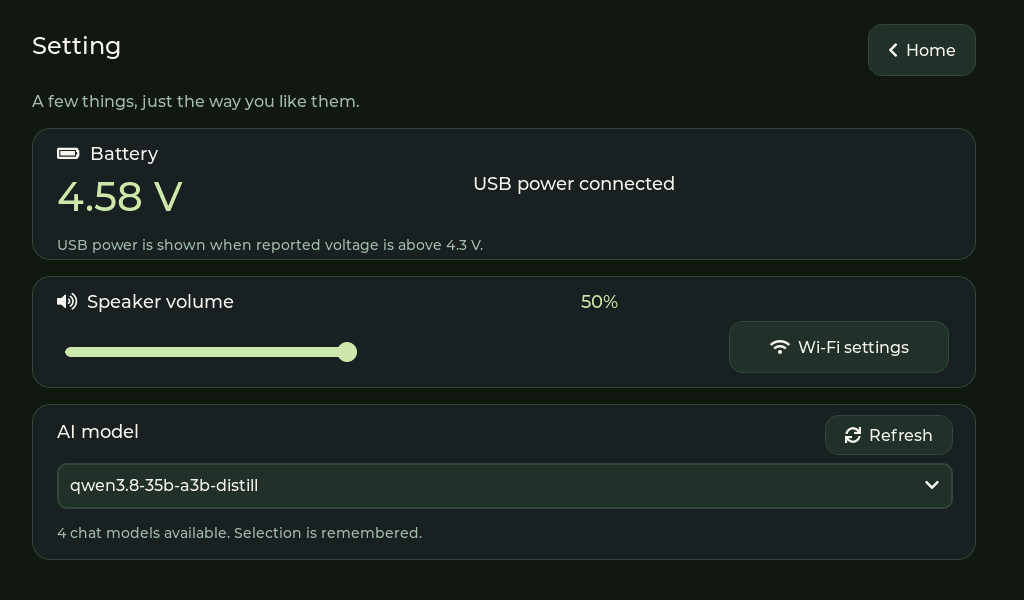
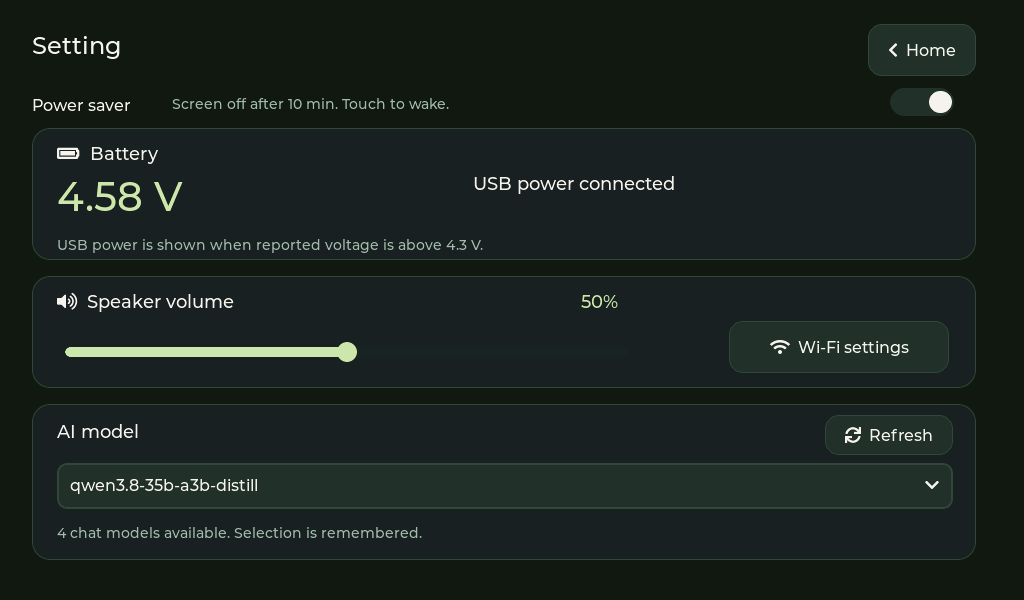
Add saved ten-minute screen power saver with touch wake

Changed region(s): [[0.0312, 0.15, 0.4375, 0.21], [0.8438, 0.15, 0.9375, 0.21]]

diff --git a/firmware/main/odin_power.c b/firmware/main/odin_power.c
@@ -1,0 +1,103 @@
+#include "odin_power.h"
+#include "odin_board.h"
+#include "lvgl.h"
+#include "nvs.h"
+#include "esp_log.h"
+#include "freertos/FreeRTOS.h"
+#include "freertos/task.h"
+#include <stdatomic.h>
+
+static atomic_bool enabled;
+static bool initialized, asleep, consume_touch;
+static bool persisted_enabled;
+static uint32_t wake_brightness = 100;
+static TaskHandle_t settings_task;
+
+bool odin_power_is_enabled(void) { return atomic_load(&enabled); }
+static esp_err_t wake_screen(void)
+{
+    if (!asleep) return ESP_OK;
+    esp_err_t err = odin_board_set_backlight(wake_brightness);
+    if (err == ESP_OK) {
+        asleep = false;
+        lv_disp_trig_activity(NULL);
+        ESP_LOGI("odin_power", "Screen awake");
+    } else ESP_LOGW("odin_power", "Unable to wake screen: %s", esp_err_to_name(err));
+    return err;
+}
+static bool filter_touch(bool pressed)
+{
+    if (!pressed) { consume_touch = false; return false; }
+    if (asleep) {
+        wake_screen();
+        consume_touch = true;
+    }
+    if (consume_touch) {
+        /* The first gesture wakes only; no hidden button or recording starts. */
+        lv_disp_trig_activity(NULL);
+        return true;
+    }
+    return false;
+}
+static void save_settings(void *arg)
+{
+    bool saved = persisted_enabled;
+    for (;;) {
+        ulTaskNotifyTake(pdTRUE, portMAX_DELAY);
+        bool value = odin_power_is_enabled();
+        if (value == saved) continue;
+        nvs_handle_t handle;
+        esp_err_t err = nvs_open("odin_power", NVS_READWRITE, &handle);
+        if (err == ESP_OK) {
+            err = nvs_set_u8(handle, "enabled", value);
+            if (err == ESP_OK) err = nvs_commit(handle);
+            nvs_close(handle);
+        }
+        if (err == ESP_OK) {
+            saved = value;
+            ESP_LOGI("odin_power", "Power saver setting saved: %s", value ? "enabled" : "disabled");
+        } else ESP_LOGW("odin_power", "Unable to save power saver: %s", esp_err_to_name(err));
+    }
+}
+void odin_power_set_enabled(bool value)
+{
+    if (value == odin_power_is_enabled()) return;
+    atomic_store(&enabled, value);
+    if (!value) wake_screen();
+    /* Enabling starts a fresh ten-minute window, even after a long idle. */
+    lv_disp_trig_activity(NULL);
+    if (settings_task) xTaskNotifyGive(settings_task);
+}
+static void idle_tick(lv_timer_t *timer)
+{
+    if (!odin_power_is_enabled() || asleep || lv_disp_get_inactive_time(NULL) < ODIN_POWER_IDLE_MS) return;
+    uint32_t brightness = odin_board_get_backlight();
+    if (brightness) wake_brightness = brightness;
+    esp_err_t err = odin_board_set_backlight(0);
+    if (err == ESP_OK) {
+        asleep = true;
+        ESP_LOGI("odin_power", "Screen off after 10 minutes without touch");
+    } else ESP_LOGW("odin_power", "Unable to turn off screen: %s", esp_err_to_name(err));
+}
+esp_err_t odin_power_init(void)
+{
+    if (initialized) return ESP_OK;
+    nvs_handle_t handle;
+    esp_err_t err = nvs_open("odin_power", NVS_READONLY, &handle);
+    if (err == ESP_OK) {
+        uint8_t value;
+        err = nvs_get_u8(handle, "enabled", &value);
+        nvs_close(handle);
+        if (err == ESP_OK && value <= 1) atomic_store(&enabled, value != 0);
+        else if (err != ESP_OK && err != ESP_ERR_NVS_NOT_FOUND) return err;
+    } else if (err != ESP_ERR_NVS_NOT_FOUND) return err;
+    persisted_enabled = odin_power_is_enabled();
+    if (xTaskCreate(save_settings, "power_settings", 3072, NULL, 2, &settings_task) != pdPASS)
+        return ESP_ERR_NO_MEM;
+    if (!lv_timer_create(idle_tick, 500, NULL)) return ESP_ERR_NO_MEM;
+    odin_board_set_touch_filter(filter_touch);
+    lv_disp_trig_activity(NULL);
+    initialized = true;
+    ESP_LOGI("odin_power", "Power saver loaded: %s; idle timeout 600 seconds", odin_power_is_enabled() ? "enabled" : "disabled");
+    return ESP_OK;
+}

diff --git a/firmware/main/odin_settings.c b/firmware/main/odin_settings.c
@@ -4,6 +4,7 @@
 #include "odin_wifi_ui.h"
 #include "odin_board.h"
 #include "odin_models.h"
+#include "odin_power.h"
 #include <string.h>
 #include <stdio.h>
 #include "esp_log.h"
@@ -18,7 +19,7 @@ typedef struct {
 static QueueHandle_t readings;
 static lv_obj_t *cog;
 static lv_obj_t *page, *battery_value, *battery_details, *battery_note;
-static lv_obj_t *volume_slider, *volume_value;
+static lv_obj_t *volume_slider, *volume_value, *power_switch;
 static lv_obj_t *model_selector, *model_status, *model_refresh;
 static odin_models_snapshot_t models;
 static uint32_t model_revision;
@@ -80,6 +81,10 @@ static void volume_cb(lv_event_t *e)
     else lv_label_set_text(volume_value, "Muted");
     if (lv_event_get_code(e) == LV_EVENT_RELEASED || lv_event_get_code(e) == LV_EVENT_PRESS_LOST)
         odin_audio_save_volume();
+}
+static void power_changed_cb(lv_event_t *event)
+{
+    odin_power_set_enabled(lv_obj_has_state(power_switch, LV_STATE_CHECKED));
 }
 static void model_refresh_cb(lv_event_t *e)
 {
@@ -180,7 +185,15 @@ void odin_settings_create(void)
     page = lv_obj_create(lv_scr_act()); lv_obj_set_size(page, 1024, 600); lv_obj_center(page);
     odin_ui_panel_style(page);
     text(page, "Setting", 8, 8, &lv_font_montserrat_24, ODIN_TEXT);
-    text(page, "A few things, just the way you like them.", 8, 68, &lv_font_montserrat_16, ODIN_MUTED);
+    text(page, "Power saver", 8, 72, &lv_font_montserrat_16, ODIN_TEXT);
+    text(page, "Screen off after 10 min. Touch to wake.", 148, 72, &lv_font_montserrat_14, ODIN_MUTED);
+    power_switch = lv_switch_create(page); lv_obj_set_pos(power_switch, 866, 64); lv_obj_set_size(power_switch, 64, 28);
+    lv_obj_set_ext_click_area(power_switch, 8);
+    lv_obj_set_style_bg_color(power_switch, lv_color_hex(ODIN_RAISED), LV_PART_MAIN);
+    lv_obj_set_style_bg_color(power_switch, lv_color_hex(ODIN_ACCENT), LV_PART_INDICATOR | LV_STATE_CHECKED);
+    lv_obj_set_style_bg_color(power_switch, lv_color_hex(ODIN_TEXT), LV_PART_KNOB);
+    if (odin_power_is_enabled()) lv_obj_add_state(power_switch, LV_STATE_CHECKED);
+    lv_obj_add_event_cb(power_switch, power_changed_cb, LV_EVENT_VALUE_CHANGED, NULL);
     button(page, LV_SYMBOL_LEFT "  Home", 844, 0, 108, home_cb);
     lv_obj_t *battery_card = card(page, 104, 132);
     text(battery_card, LV_SYMBOL_BATTERY_FULL "  Battery", 24, 14, &lv_font_montserrat_18, ODIN_TEXT);

diff --git a/firmware/board/odin_board.c b/firmware/board/odin_board.c
@@ -30,6 +30,19 @@ static esp_lcd_panel_handle_t panel;
 static i2c_master_bus_handle_t i2c_bus;
 static esp_lcd_touch_handle_t touch;
 static bool backlight_ready;
+static uint32_t backlight_percent;
+static bool (*touch_filter)(bool pressed);
+static void (*original_touch_read)(lv_indev_drv_t *, lv_indev_data_t *);
+
+void odin_board_set_touch_filter(bool (*filter)(bool pressed)) { touch_filter = filter; }
+uint32_t odin_board_get_backlight(void) { return backlight_percent; }
+static void read_filtered_touch(lv_indev_drv_t *driver, lv_indev_data_t *data)
+{
+    original_touch_read(driver, data);
+    if (touch_filter && touch_filter(data->state == LV_INDEV_STATE_PRESSED))
+        data->state = LV_INDEV_STATE_RELEASED;
+}
+
 static bool init_started;
 
 esp_err_t odin_board_set_backlight(uint32_t brightness)
@@ -39,7 +52,9 @@ esp_err_t odin_board_set_backlight(uint32_t brightness)
     uint32_t duty = brightness ? brightness * 18 + 200 : 0;
     ESP_RETURN_ON_ERROR(ledc_set_duty(LEDC_LOW_SPEED_MODE, LEDC_CHANNEL_0, duty),
                         TAG, "set backlight duty");
-    return ledc_update_duty(LEDC_LOW_SPEED_MODE, LEDC_CHANNEL_0);
+    esp_err_t err = ledc_update_duty(LEDC_LOW_SPEED_MODE, LEDC_CHANNEL_0);
+    if (err == ESP_OK) backlight_percent = brightness;
+    return err;
 }
 
 static esp_err_t backlight_init(void)
@@ -177,8 +192,16 @@ static esp_err_t display_lvgl_init(void)
     lv_display_t *display = lvgl_port_add_disp_dsi(&display_cfg, &dsi_cfg);
     ESP_RETURN_ON_FALSE(display, ESP_FAIL, TAG, "register LVGL display");
     const lvgl_port_touch_cfg_t touch_cfg = {.disp = display, .handle = touch};
-    ESP_RETURN_ON_FALSE(lvgl_port_add_touch(&touch_cfg), ESP_FAIL, TAG,
-                        "register LVGL touch");
+    ESP_RETURN_ON_FALSE(lvgl_port_lock(1000), ESP_ERR_TIMEOUT, TAG, "lock LVGL for touch registration");
+    lv_indev_t *touch_input = lvgl_port_add_touch(&touch_cfg);
+    if (!touch_input) {
+        lvgl_port_unlock();
+        ESP_LOGE(TAG, "register LVGL touch");
+        return ESP_FAIL;
+    }
+    original_touch_read = touch_input->driver->read_cb;
+    touch_input->driver->read_cb = read_filtered_touch;
+    lvgl_port_unlock();
     return ESP_OK;
 }
 

diff --git a/firmware/board/include/odin_board.h b/firmware/board/include/odin_board.h
@@ -1,10 +1,14 @@
 #pragma once
 #include <stdint.h>
+#include <stdbool.h>
 #include "esp_err.h"
 
 /* Owns V1.0 LCD power, backlight, DSI, touch I2C, and the LVGL task. */
 esp_err_t odin_board_init(void);
 esp_err_t odin_board_set_backlight(uint32_t brightness);
+uint32_t odin_board_get_backlight(void);
+/* Set under the LVGL lock. Return true to consume a touch sample. */
+void odin_board_set_touch_filter(bool (*filter)(bool pressed));
 
 /* STC8 battery registers. Call from a worker task; uses the existing touch bus. */
 typedef struct {

diff --git a/firmware/main/main.c b/firmware/main/main.c
@@ -9,6 +9,7 @@
 #include "odin_settings.h"
 #include "odin_models.h"
 #include "odin_clock.h"
+#include "odin_power.h"
 #include "nvs_flash.h"
 
 static const char *TAG = "odin";
@@ -34,6 +35,7 @@ void app_main(void)
     odin_ui_set_transcript("Ask a question, share a thought,\nor simply start talking.");
     odin_wifi_ui_create();
     odin_ai_create();
+    ESP_ERROR_CHECK(odin_power_init());
     odin_settings_create();
     lvgl_port_unlock();
     ESP_ERROR_CHECK(odin_board_set_backlight(100));

diff --git a/firmware/main/odin_power.h b/firmware/main/odin_power.h
@@ -1,0 +1,8 @@
+#pragma once
+#include <stdbool.h>
+#include "esp_err.h"
+#define ODIN_POWER_IDLE_MS (10U * 60U * 1000U)
+/* Call initialization and setters under the LVGL lock / from UI callbacks. */
+esp_err_t odin_power_init(void);
+bool odin_power_is_enabled(void);
+void odin_power_set_enabled(bool enabled);

diff --git a/firmware/README.md b/firmware/README.md
@@ -220,3 +220,11 @@ The timezone is `EST5EDT,M3.2.0/2,M11.1.0/2`, implementing Montreal's seasonal
 Eastern time rules. Tests covered winter/summer offsets, both 2026 DST
 transitions, and the pre-sync and short-buffer cases. Reference:
 https://www.quebec.ca/gouvernement/portrait-quebec/changement-heure
+
+## Screen power saver
+
+Enable **Setting → Power saver** to turn off the backlight after ten minutes
+without touch. Touch the screen to wake it at its previous brightness; the first
+gesture only wakes the screen. Clock updates and network activity do not reset
+the timeout. The switch defaults to off and is saved in NVS across restarts.
+Wi-Fi, voice services, and the processor continue running while the screen sleeps.
